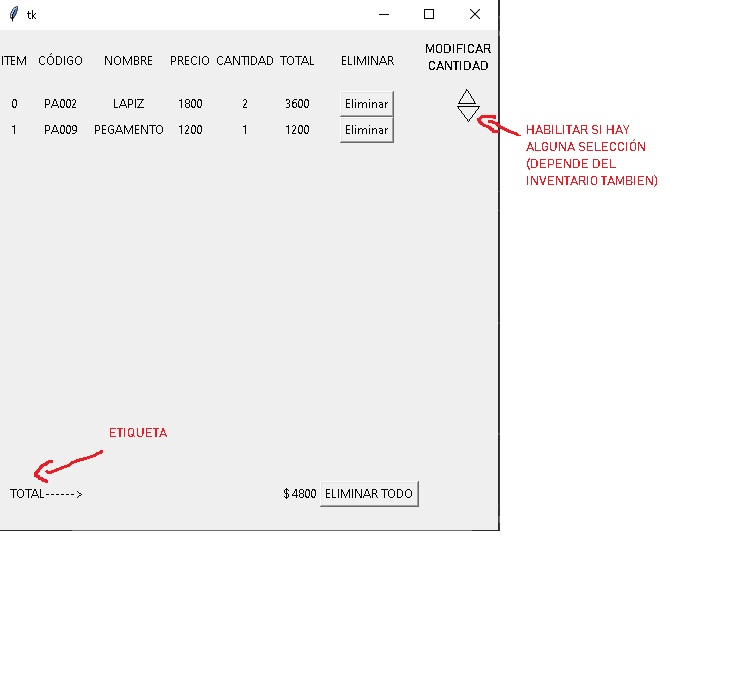
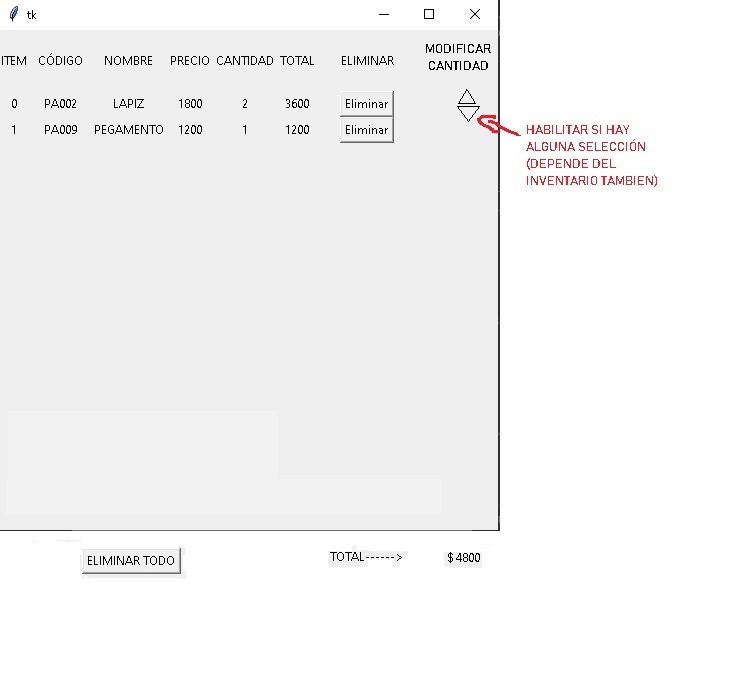
09222030 #2 código temporal

diff --git a/interfaces_graficas_v2.py b/interfaces_graficas_v2.py
@@ -897,6 +897,7 @@ class InterfazPrincipal:
 
 					self.cantidadListaCompra.config(text=len(self.listaCompra))
 
+
 			else:
 
 				messagebox.showwarning(title="PROBLEMA", message= f"No hay {articulo.loc['NOMBRE']} en stock.")
@@ -926,52 +927,87 @@ class InterfazPrincipal:
 		#*la modificacion se vea reflejada en simultáneo.
 		#* Cuando selecciono otra acción general, la lista permanece intacta (¿? Analizar si es bueno o no)
 
-		def crearVista():
+		def reiniciarLista():
 
-			@conexiones.decoradorBaseDatos
-			def modificarCantidad(vacio, cursor, conexion, tipo):
-				cod_sel = treeVista.item(treeVista.selection())["values"][1]
-				cursor.execute("SELECT CANTIDAD FROM INVENTARIO_PAPELERIA WHERE CODIGO = (?)", (cod_sel,))
-				cant_BBDD = cursor.fetchone()[0]
-				print(cant_BBDD)
-				print(cod_sel)
+			treeVista.delete(*treeVista.get_children())
 
-			treeVista = ttk.Treeview(interfazArticulos, columns = ("ITEM", "CODIGO", "NOMBRE", "PRECIO", "CANTIDAD", "TOTAL"))
-			treeVista.place(relx=0.02, relwidth=0.85, rely=0.02, relheight= 0.86)
+			self.listaCompra.drop(self.listaCompra.index, inplace=True)
+			self.cantidadListaCompra.config(text=0)
 
-			Label(interfazArticulos, text = "MODIFICAR\nCANTIDAD", width = 15).place(relx=0.88, rely=0.02, relwidt=0.11)
+		@conexiones.decoradorBaseDatos
+		def modificarCantidad(vacio, cursor, conexion, tipo):
 
-			btnAumentar = Button(interfazArticulos, text="+", borderwidth = 0, command=lambda : modificarCantidad(None, "MAS"))
-			btnAumentar.place(relx=0.92, rely=0.08)
+			cod_sel = treeVista.item(treeVista.selection())["values"][1]
+			cursor.execute("SELECT CANTIDAD FROM INVENTARIO_PAPELERIA WHERE CODIGO = (?)", (cod_sel,))
+			cant_BBDD = cursor.fetchone()[0]
 
-			btnDisminuir = Button(interfazArticulos, text="-", borderwidth = 0, command= lambda : modificarCantidad(None, "MENOSS"))
-			btnDisminuir.place(relx=0.92, rely=0.12)
+			if tipo == "MAS":
+				print("aumentar cantidad")
+			else:
+				print("disminuir cantidad")
+			# cod_sel = treeVista.item(treeVista.selection())["values"][1]
+			# cursor.execute("SELECT CANTIDAD FROM INVENTARIO_PAPELERIA WHERE CODIGO = (?)", (cod_sel,))
+			# cant_BBDD = cursor.fetchone()[0]
+			# print(cant_BBDD)
+			# print(cod_sel)
 
-			treeVista.column("#0", width=0, stretch=NO)
-			treeVista.column("ITEM", width = 10, anchor = "center")
-			treeVista.column("CODIGO", width = 10, anchor = "center")
-			treeVista.column("NOMBRE", width = 10, anchor = "center")
-			treeVista.column("PRECIO", width = 10, anchor = "center")
-			treeVista.column("CANTIDAD", width = 10, anchor = "center")
-			treeVista.column("TOTAL", width = 10, anchor = "center")
+		# def impresion():
 
-			#treeVista.heading("#0")
-			treeVista.heading("ITEM", text = "ITEM")
-			treeVista.heading("CODIGO", text="CODIGO")
-			treeVista.heading("NOMBRE", text = "NOMBRE")
-			treeVista.heading("PRECIO", text = "PRECIO")
-			treeVista.heading("CANTIDAD", text = "CANTIDAD")
-			treeVista.heading("TOTAL", text = "TOTAL")
+		# 	if len(self.listaCompra) != 0:
 
+		# 		valorTotal = self.listaCompra.iloc[:,4].sum()
+		# 		contador = 1
 
+		# 		for llave, valor in self.listaCompra.iterrows():
+		# 			treeVista.insert("","end", iid = contador, values = (contador, valor.loc["CODIGO"], valor.loc["NOMBRE"],valor.loc["PRECIO_UNIT"], valor.loc["CANTIDAD_COMPRA"], valor.loc["SUB_TOTAL"]))
+		# 			contador += 1
 
-			#Label(modificarArticulos,text="ITEM").grid(column=0, row=0)
-			#Label(modificarArticulos,text="CÓDIGO").grid(column=1, row=0,pady=20, padx=5)
-			#Label(modificarArticulos,text="NOMBRE").grid(column=2, row=0)
-			#Label(modificarArticulos,text="PRECIO").grid(column=3, row=0)
-			#Label(modificarArticulos,text="CANTIDAD").grid(column=4, row=0)
-			#Label(modificarArticulos,text="TOTAL").grid(column=5, row=0)
-			#Label(modificarArticulos,text="ELIMINAR").grid(column=6, row=0)
+		# 		lblTotal["text"] = self.conversiones.puntoMilConSimbolo(valorTotal) 
+			
+		interfazArticulos = Toplevel()
+		interfazArticulos.bind("<Escape>", lambda _ : interfazArticulos.destroy())
+		interfazArticulos.focus_set()
+		interfazArticulos.grab_set()
+		interfazArticulos.geometry("500x500")
+
+		treeVista = ttk.Treeview(interfazArticulos, columns = ("ITEM", "CODIGO", "NOMBRE", "PRECIO", "CANTIDAD", "TOTAL"))
+		treeVista.place(relx=0.02, relwidth=0.85, rely=0.02, relheight= 0.86)
+
+		Label(interfazArticulos, text = "CANTIDAD", width = 15).place(relx=0.88, rely=0.02, relwidt=0.11)
+
+		btnAumentar = Button(interfazArticulos, text="+", borderwidth = 0, command=lambda : modificarCantidad(None, "MAS"))
+		btnAumentar.place(relx=0.92, rely=0.08)
+
+		btnDisminuir = Button(interfazArticulos, text="-", borderwidth = 0, command= lambda : modificarCantidad(None, "MENOS"))
+		btnDisminuir.place(relx=0.92, rely=0.12)
+
+		btnVaciarCarrito = Button(interfazArticulos, text = "VACIAR", width = 12, command = reiniciarLista)
+		btnVaciarCarrito.place(relx= 0.2, rely = 0.92)
+
+		Label(interfazArticulos, text = "TOTAL:", width = 10).place(relx = 0.60, rely = 0.92)
+
+		lblTotal = Label(interfazArticulos)
+		lblTotal.place(relx = 0.77, rely = 0.92)
+
+		treeVista.column("#0", width=0, stretch=NO)
+		treeVista.column("ITEM", width = 10, anchor = "center")
+		treeVista.column("CODIGO", width = 10, anchor = "center")
+		treeVista.column("NOMBRE", width = 10, anchor = "center")
+		treeVista.column("PRECIO", width = 10, anchor = "center")
+		treeVista.column("CANTIDAD", width = 10, anchor = "center")
+		treeVista.column("TOTAL", width = 10, anchor = "center")
+
+		#treeVista.heading("#0")
+		treeVista.heading("ITEM", text = "ITEM")
+		treeVista.heading("CODIGO", text="CODIGO")
+		treeVista.heading("NOMBRE", text = "NOMBRE")
+		treeVista.heading("PRECIO", text = "PRECIO")
+		treeVista.heading("CANTIDAD", text = "CANTIDAD")
+		treeVista.heading("TOTAL", text = "TOTAL")
+
+		# impresion()
+
+		if len(self.listaCompra) != 0:
 
 			valorTotal = self.listaCompra.iloc[:,4].sum()
 			contador = 1
@@ -980,77 +1016,9 @@ class InterfazPrincipal:
 				treeVista.insert("","end", iid = contador, values = (contador, valor.loc["CODIGO"], valor.loc["NOMBRE"],valor.loc["PRECIO_UNIT"], valor.loc["CANTIDAD_COMPRA"], valor.loc["SUB_TOTAL"]))
 				contador += 1
 
+			lblTotal["text"] = self.conversiones.puntoMilConSimbolo(valorTotal) 
+
 			treeVista.selection_set(1)
-			# self.listaCompra = ["CODIGO", "NOMBRE", "PRECIO_UNIT", "CANTIDAD_COMPRA", "SUB_TOTAL", "UTILIDAD"])
-			# interfaz = "ITEM=POSICION DEL ARTICULO" "CODIGO" "NOMBRE" "PRECIO" "CANTIDAD" "TOTAL" "ELIMINAR"
-			
-			#if len(self.listaCompra)>0:
-
-
-				#for i in range(len(self.listaCompra)):
-
-					#for k in range(7):
-
-						# agregamos el indice a cada articulo agrupandolos por nombre
-						#if k == 0:
-
-							#etiqueta = Label(modificarArticulos, text=i)
-
-						# agregamos el botón para eliminar de a un articulo.
-						#elif k != 6:
-							
-							#etiqueta = Label(modificarArticulos, text=self.listaCompra.iloc[i, k-1])
-
-						#else:
-
-							#etiqueta=Button(modificarArticulos,text="Eliminar", command=lambda i=i : quitarArticulo(i))
-
-						#etiqueta.grid(column=k, row=i+1)
-
-			#Label(modificarArticulos, text="TOTAL------>").grid(column=0,columnspan=2,row=len(self.listaCompra)+2, sticky="nsew")
-
-
-			#self.lblTotal = Label(modificarArticulos, text="$ "+str(valorTotal))
-			#self.lblTotal.grid(column=5, row=len(self.listaCompra)+2)
-
-			#Button(modificarArticulos, text = "ELIMINAR TODO", command= reiniciarLista).grid(column = 6, row=self.lblTotal.grid_info()["row"])
-
-		def reiniciarLista():
-
-			# cuando presionamos eliminar todo, en la interfaz de la modicacion de compra.
-
-			treeVista.delete(*treeVista.get_children())
-
-			self.listaCompra.drop(self.listaCompra.index, inplace=True)
-			self.cantidadListaCompra.config(text=len(self.listaCompra))
-
-			crearVista()
-
-		#def quitarArticulo(indice):
-
-			#for w in modificarArticulos.winfo_children():
-				#w.destroy()
-
-			# self.listaCompra = ["CODIGO", "NOMBRE", "PRECIO_UNIT", "CANTIDAD_COMPRA", "SUB_TOTAL", "UTILIDAD"])
-			#if self.listaCompra.iloc[indice, 3] == 1:
-				#self.listaCompra.drop(index = indice, inplace=True)
-				#self.listaCompra.reset_index(drop=True, inplace=True)
-			
-
-			#else:
-				#self.listaCompra.iloc[indice, 3]-= 1
-				#self.listaCompra.iloc[indice, 4] = int(self.listaCompra.iloc[indice, 2] * self.listaCompra.iloc[indice,3])
-
-			#self.cantidadListaCompra.config(text=len(self.listaCompra))
-			#crearVista()
-			
-		interfazArticulos = Toplevel()
-		interfazArticulos.bind("<Escape>", lambda _ : interfazArticulos.destroy())
-		interfazArticulos.focus_set()
-		interfazArticulos.geometry("500x500")
-		#modificarArticulos = Frame(interfazArticulos)
-		#modificarArticulos.pack(expand = True, fill = BOTH)
-		crearVista()
 
 	def generarCodigoCliente(self,cursor):
 

diff --git a/pruebas.py b/pruebas.py
@@ -96,7 +96,8 @@ def pruebaDataFrame():
 	for llave, valor in df.iterrows():
 		print(valor)
 		print(type(valor))
-
+	print(len(df))
+	
 def tratamientoCadenas():
 
 	frase  = "esta / es la frase ~ que estamos ~colocando de / prueba"
@@ -169,13 +170,14 @@ def manejoErrores():
 
 def modificarFuncion(funcion):
 
-	def modificadora():
+	def modificadora(var1, var2, *args, **kwargs):
+	# def modificadora( *args, **kwargs):
 
-		conexion = sqlite3.connect("C:/Users/ASUS/Documents/documentos_vr/punto_local_ventas/BASE_DATOS_PRUEBA.db")
+		conexion = sqlite3.connect("C:/Users/Victo/Documents/programacion/proyectos_propios/punto_local_ventas/BASE_DATOS_PRUEBA.db")
 		cursor = conexion.cursor()
 		args = ["hola", "mi perro"]
 		kwargs = {"conexion":conexion, "cursor":cursor}
-		funcion(*args, **kwargs)
+		funcion(var1, var2, *args, **kwargs)
 		conexion.commit()
 		cursor.close()
 		conexion.close()
@@ -185,17 +187,17 @@ def modificarFuncion(funcion):
 
 
 @modificarFuncion
-def funcionPrueba(  *args, **kwargs):
-	print(numero)
+def funcionPrueba( var1, var2, *args, **kwargs):
+	print(var1)
 	print(args)
 	print(kwargs)
 	cursor = kwargs["cursor"]
 	conexion = kwargs["conexion"]
 	cursor.execute("SELECT COD_FACTURA FROM SALDOS")
 	prueba = cursor.fetchall()
-	print(prueba)
 
 	# Devuelve los valores que deseas
 	return 
 
-pruebaDataFrame()
+# funcionPrueba("hola", "chao")
+
